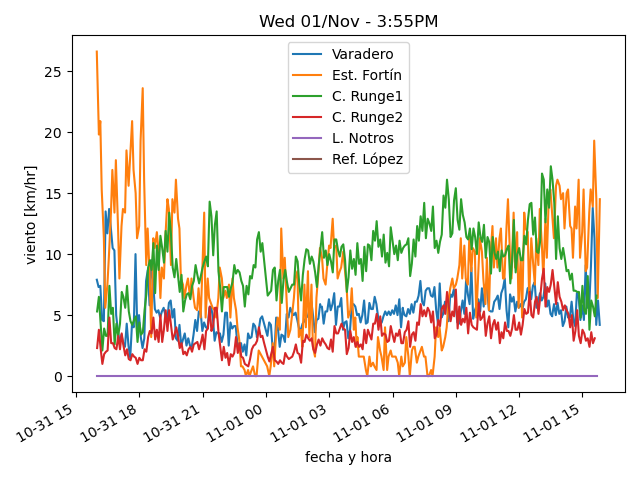
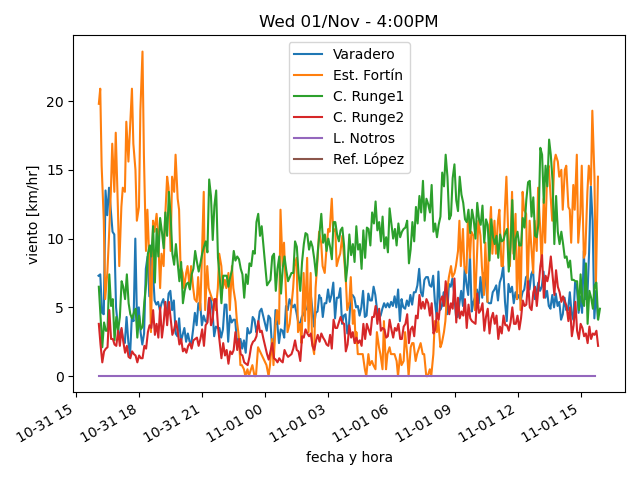
actualiza datos

diff --git a/estaciones/estacion3.html b/estaciones/estacion3.html
@@ -18,22 +18,22 @@
     </tr>
     <tr>
      <td class="stats_data">
-      3:39PM
+      3:54PM
      </td>
     </tr>
     <tr>
      <td class="stats_data">
-      7.6⁰C
+      6.6⁰C
      </td>
     </tr>
     <tr>
      <td class="stats_data">
-      4.0⁰C
+      3.4⁰C
      </td>
     </tr>
     <tr>
      <td class="stats_data">
-      78.0%
+      80.3%
      </td>
     </tr>
     <tr>
@@ -43,7 +43,7 @@
     </tr>
     <tr>
      <td class="stats_data">
-      4.7/6.6 km/hr NNE
+      3.4/4.9 km/hr N
      </td>
     </tr>
     <tr>
@@ -53,12 +53,12 @@
     </tr>
     <tr>
      <td class="stats_data">
-      8.0
+      2.0
      </td>
     </tr>
     <tr>
      <td class="stats_data">
-      780.4 W/m²
+      210.8 W/m²
      </td>
     </tr>
    </tbody>

diff --git a/estaciones/estacion4.html b/estaciones/estacion4.html
@@ -18,17 +18,17 @@
     </tr>
     <tr>
      <td class="stats_data">
-      3:34PM
+      3:49PM
      </td>
     </tr>
     <tr>
      <td class="stats_data">
-      6.8⁰C
+      6.7⁰C
      </td>
     </tr>
     <tr>
      <td class="stats_data">
-      3.3⁰C
+      3.2⁰C
      </td>
     </tr>
     <tr>
@@ -43,7 +43,7 @@
     </tr>
     <tr>
      <td class="stats_data">
-      1.9/3.1 km/hr WNW
+      1.5/2.2 km/hr WSW
      </td>
     </tr>
     <tr>
@@ -58,7 +58,7 @@
     </tr>
     <tr>
      <td class="stats_data">
-      296.3 W/m²
+      256.5 W/m²
      </td>
     </tr>
    </tbody>
